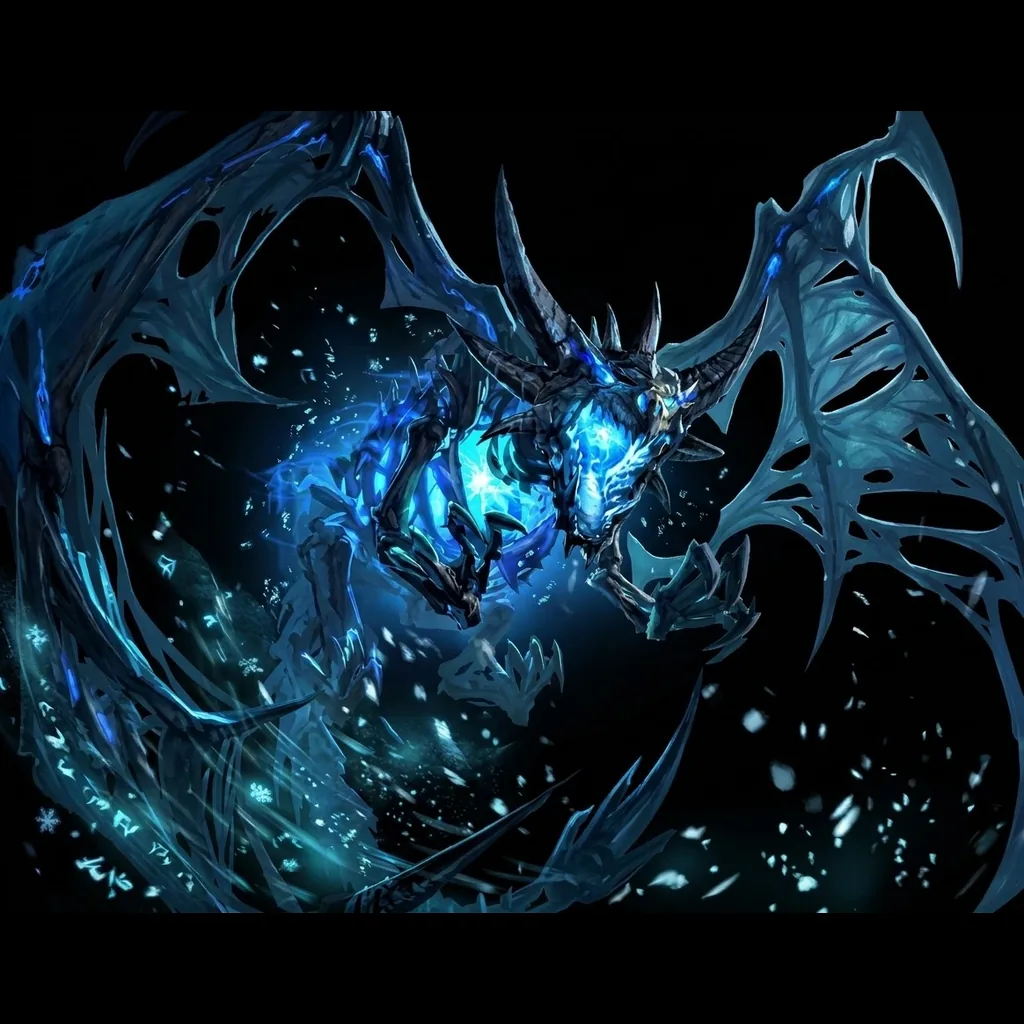
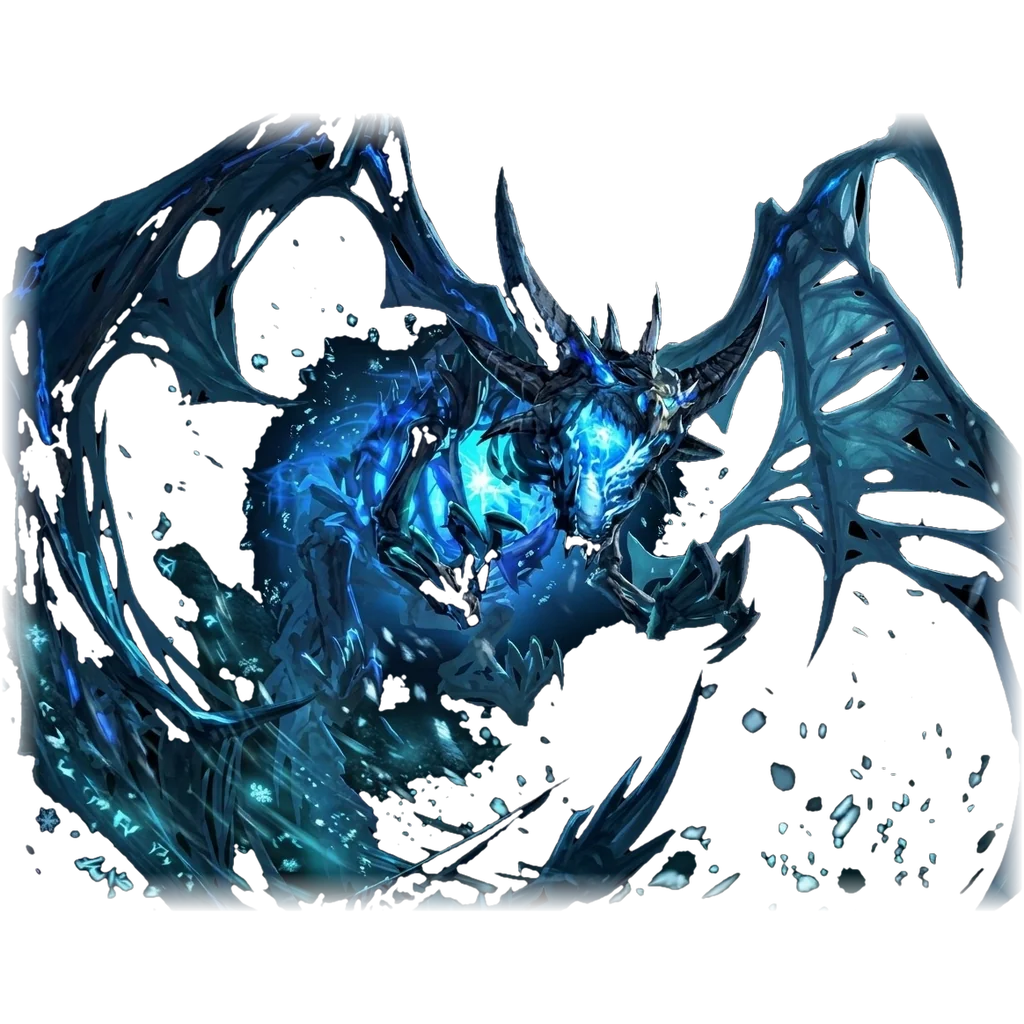
Polish the raid boss visuals
Sindragosa now has a real cutout and looks solid instead of translucent.
The boss card loses its rotating rays and the raid banner its boss
thumbnail. Visual-only sheet data no longer changes the game version, so
it will not force a verifier redeploy.

diff --git a/prototipo/js/ui/carta.js b/prototipo/js/ui/carta.js
@@ -21,11 +21,11 @@ function puntoBorde() {                              // punto al azar del contor
 // Sombra y resplandores ya desenfocados (se crean una vez y los comparten todas las cartas)
 let TEX_SOMBRA, TEX_LIDER, TEX_FORMA, TEX_CORONA;
 
-// Aura de jefe (ficha: auraJefe), según su lore: corona que late, rayos que giran y partículas que suben desde los bordes
+// Aura de jefe (ficha: auraJefe), según su lore: corona que late y partículas que suben desde los bordes
 const AURAS_JEFE = {
-  hielo: { corona: 0x38bdf8, rayos: 0x7dd3fc, chispas: [0xffffff, 0xe0f2fe, 0x7dd3fc, 0x38bdf8], onda: 0xbae6fd },
-  fuego: { corona: 0xff7a1a, rayos: 0xffd36b, chispas: [0xfff3a0, 0xffc23a, 0xff8a1a, 0xff5a00], onda: 0xffb020 },
-  oscuro: { corona: 0x7c3aed, rayos: 0xa78bfa, chispas: [0xddd6fe, 0xa78bfa, 0x7c3aed, 0x4c1d95], onda: 0x8b5cf6 },
+  hielo: { corona: 0x38bdf8, chispas: [0xffffff, 0xe0f2fe, 0x7dd3fc, 0x38bdf8], onda: 0xbae6fd },
+  fuego: { corona: 0xff7a1a, chispas: [0xfff3a0, 0xffc23a, 0xff8a1a, 0xff5a00], onda: 0xffb020 },
+  oscuro: { corona: 0x7c3aed, chispas: [0xddd6fe, 0xa78bfa, 0x7c3aed, 0x4c1d95], onda: 0x8b5cf6 },
 };
 // Carta de jefe: la imagen completa dentro de un marco, sin nombre, barra ni estadísticas
 function texturaJefe(p) {
@@ -185,14 +185,8 @@ export class Carta {
     if (p.auraJefe) {
       const st = this.auraDeJefe = AURAS_JEFE[p.auraJefe];
       TEX_CORONA ||= texturaDesenfocada(CW + 10, CH + 10, 16, 9, { forma: 'borde', grosor: 12, color: '#ffffff', alpha: 1 });
-      const r = this.jefeRayos = new PIXI.Graphics();
-      for (let i = 0; i < 16; i++) {
-        const a = i * Math.PI / 8, b = i % 2 ? .05 : .08, L = i % 2 ? 165 : 200;
-        r.poly([0, 0, Math.cos(a - b) * L, Math.sin(a - b) * L, Math.cos(a + b) * L, Math.sin(a + b) * L]).fill({ color: st.rayos, alpha: i % 2 ? .10 : .17 });
-      }
-      r.blendMode = 'add';
       this.jefeCorona = new PIXI.Sprite(TEX_CORONA); this.jefeCorona.anchor.set(.5); this.jefeCorona.tint = st.corona; this.jefeCorona.blendMode = 'add';
-      body.addChildAt(this.jefeCorona, 0); body.addChildAt(r, 0);
+      body.addChildAt(this.jefeCorona, 0);
       this.jefeOnda = 2;
     }
     this.statusRow = new PIXI.Container(); this.statusRow.y = CH / 2;   // sobre el borde inferior de la carta
@@ -269,12 +263,11 @@ export class Carta {
 
   tickAuraJefe(dt, T, x, y) {
     const vivo = !this.v?.muerto, st = this.auraDeJefe;
-    this.jefeCorona.visible = this.jefeRayos.visible = vivo;
+    this.jefeCorona.visible = vivo;
     if (!vivo) return;
     const k = this.c.scale.x * this.body.scale.x, cy = y + this.body.y * this.c.scale.y;
     this.jefeCorona.alpha = .7 + .3 * Math.sin(T * 1.8);
     this.jefeCorona.scale.set(1 + .03 * Math.sin(T * 1.8));
-    this.jefeRayos.rotation += .004 * dt; this.jefeRayos.alpha = .75 + .25 * Math.sin(T * 1.3);
     if (Math.random() < (MOVIL ? .7 : 1.4) * dt) {
       const b = puntoBorde();
       spawn({ x: x + (b.x + b.nx * rand(0, 6)) * k, y: cy + (b.y + b.ny * rand(0, 6)) * k, vx: b.nx * rand(.2, .8) + rand(-.2, .2), vy: rand(-1, -2.6) + b.ny * .4,

diff --git a/docs/supabase/verificar-raid.ts b/docs/supabase/verificar-raid.ts
@@ -302,7 +302,7 @@ const INVOCACIONES = {
   // vuelo: true → en el campo del jefe cruza la pantalla al aparecer y al atacar
   sindragosa: {
     nombre: 'Sindragosa', rareza: 'Legendario', emoji: '🐉', color: 0x38bdf8, imagen: 'assets/invocaciones/sindragosa.webp', dur: 2,
-    enfoque: [.62, .36], luminosa: true, vuelo: true,
+    enfoque: [.62, .36], vuelo: true,
     desc: 'La Reina de los Vermis de Escarcha. Al aparecer aplica Desgaste a todos los enemigos. Cada turno, Aliento de Escarcha: golpea 70% a todos los enemigos, con 25% de probabilidad de Congelación.',
     alAparecer: [{ tipo: 'efecto', id: 'wear', a: 'todosEnemigos' }],
     acciones: [{ tipo: 'golpe', pct: .70, elegir: 'todos', efectos: [{ accion: { tipo: 'efecto', id: 'freeze', prob: .25 } }] }],
@@ -8144,8 +8144,11 @@ function conCuenta(def, cuenta) {
 
 // Versión del juego (huella de las fichas y reliquias): en vivo solo se emparejan jugadores con la misma, y el servidor
 // solo verifica batallas jugadas con la versión que conoce
+// Lo que solo se ve no cambia una batalla: no debe obligar a volver a publicar la función que las verifica
+const VISUALES = new Set(['imagen', 'arteCarta', 'auraJefe', 'ambiente', 'emoji', 'color', 'enfoque', 'luminosa', 'vuelo', 'desc', 'nombre', 'estilo']);
+const sinVisuales = o => JSON.parse(JSON.stringify(o, (k, v) => VISUALES.has(k) ? undefined : v));
 const VERSION = (() => {
-  const t = JSON.stringify([OFICIALES.map(p => [p.id, p.base, p.extra, p.movimientos, p.pasiva, p.lider]), Object.keys(RELIQUIAS), JEFES_RAID, INVOCACIONES]);
+  const t = JSON.stringify([OFICIALES.map(p => [p.id, p.base, p.extra, p.movimientos, p.pasiva, p.lider]), Object.keys(RELIQUIAS), sinVisuales(JEFES_RAID), sinVisuales(INVOCACIONES)]);
   let h = 0; for (let i = 0; i < t.length; i++) h = (h * 31 + t.charCodeAt(i)) | 0; return String(h >>> 0);
 })();
 

diff --git a/prototipo/js/ui/ambiente.js b/prototipo/js/ui/ambiente.js
@@ -128,13 +128,13 @@ export function almaAlJefe(carta, jefe) {
     onComplete: () => { if (!s.destroyed) { burst(s.x, s.y, { n: 12, colors: [0xffffff, 0x7dd3fc], speed: 5, size: .22, life: 22 }); s.destroy(); } } });
 }
 
-// Una invocación con vuelo (Sindragosa) cruza el campo. El negro de su imagen desaparece con el modo "pantalla".
+// Una invocación con vuelo (Sindragosa) cruza el campo. Su imagen ya viene recortada: se ve sólida, no translúcida.
 export async function vueloInvocacion(imagen, { fuerza = 1, segundos = 1.8 } = {}) {
   if (!A) return;
   const tex = await PIXI.Assets.load(imagen);
   if (!A) return;
   const w = A.w, h = A.h, s = new PIXI.Sprite(tex);
-  s.anchor.set(.5); s.blendMode = 'screen'; s.alpha = 0; s.eventMode = 'none';
+  s.anchor.set(.5); s.alpha = 0; s.eventMode = 'none';
   const lado = Math.max(w * .75, h * .75) / tex.width;
   s.scale.set(lado); s.position.set(w * 1.15, h * .2);
   A.frente.addChildAt(s, A.frente.children.length - 2);        // delante de la nieve, detrás de la niebla y el destello
@@ -142,7 +142,7 @@ export async function vueloInvocacion(imagen, { fuerza = 1, segundos = 1.8 } = {
   destellar(.2, .4);
   shakeScene(8);
   gsap.timeline({ onComplete: () => { if (!s.destroyed) s.destroy(); } })
-    .to(s, { alpha: .95, duration: .35 }, 0)
+    .to(s, { alpha: 1, duration: .35 }, 0)
     .to(s, { x: w * -.15, y: h * .32, duration: segundos, ease: 'none' }, 0)
     .to(s, { alpha: 0, duration: .4 }, segundos - .4);
 }

diff --git a/prototipo/js/datos/cuenta.js b/prototipo/js/datos/cuenta.js
@@ -25,7 +25,10 @@ export function conCuenta(def, cuenta) {
 
 // Versión del juego (huella de las fichas y reliquias): en vivo solo se emparejan jugadores con la misma, y el servidor
 // solo verifica batallas jugadas con la versión que conoce
+// Lo que solo se ve no cambia una batalla: no debe obligar a volver a publicar la función que las verifica
+const VISUALES = new Set(['imagen', 'arteCarta', 'auraJefe', 'ambiente', 'emoji', 'color', 'enfoque', 'luminosa', 'vuelo', 'desc', 'nombre', 'estilo']);
+const sinVisuales = o => JSON.parse(JSON.stringify(o, (k, v) => VISUALES.has(k) ? undefined : v));
 export const VERSION = (() => {
-  const t = JSON.stringify([OFICIALES.map(p => [p.id, p.base, p.extra, p.movimientos, p.pasiva, p.lider]), Object.keys(RELIQUIAS), JEFES_RAID, INVOCACIONES]);
+  const t = JSON.stringify([OFICIALES.map(p => [p.id, p.base, p.extra, p.movimientos, p.pasiva, p.lider]), Object.keys(RELIQUIAS), sinVisuales(JEFES_RAID), sinVisuales(INVOCACIONES)]);
   let h = 0; for (let i = 0; i < t.length; i++) h = (h * 31 + t.charCodeAt(i)) | 0; return String(h >>> 0);
 })();

diff --git a/prototipo/js/datos/invocaciones.js b/prototipo/js/datos/invocaciones.js
@@ -17,7 +17,7 @@ export const INVOCACIONES = {
   // vuelo: true → en el campo del jefe cruza la pantalla al aparecer y al atacar
   sindragosa: {
     nombre: 'Sindragosa', rareza: 'Legendario', emoji: '🐉', color: 0x38bdf8, imagen: 'assets/invocaciones/sindragosa.webp', dur: 2,
-    enfoque: [.62, .36], luminosa: true, vuelo: true,
+    enfoque: [.62, .36], vuelo: true,
     desc: 'La Reina de los Vermis de Escarcha. Al aparecer aplica Desgaste a todos los enemigos. Cada turno, Aliento de Escarcha: golpea 70% a todos los enemigos, con 25% de probabilidad de Congelación.',
     alAparecer: [{ tipo: 'efecto', id: 'wear', a: 'todosEnemigos' }],
     acciones: [{ tipo: 'golpe', pct: .70, elegir: 'todos', efectos: [{ accion: { tipo: 'efecto', id: 'freeze', prob: .25 } }] }],

diff --git a/prototipo/menu.css b/prototipo/menu.css
@@ -1081,7 +1081,6 @@ body.social-min #soc-abrir { display: block; }
 /* Jefe de Raid */
 .rd-tarjeta { min-height: 240px; border-color: rgba(125, 211, 252, .45); background-size: cover; background-position: center; display: flex; flex-direction: column; justify-content: flex-end; }
 .rd-tarjeta h3 { color: #bae6fd; }
-.rd-arte { position: absolute; right: 14px; top: 14px; width: 150px; border-radius: 10px; border: 1px solid rgba(186, 230, 253, .6); }
 .rd-difs { display: flex; gap: 6px; margin-top: 10px; overflow-x: auto; }
 .rd-dif { flex: 1 0 auto; padding: 8px 12px; border-radius: 10px; border: 1px solid var(--dc); background: rgba(8, 11, 18, .85); color: var(--dc); font-weight: 800; cursor: pointer; }
 .rd-dif.on { background: var(--dc); color: #0b1220; }

diff --git a/prototipo/js/ui/raid.js b/prototipo/js/ui/raid.js
@@ -68,7 +68,6 @@ function pintar() {
   $('#rd-cuerpo').innerHTML = `
     <section>
       <div class="hd-tarjeta rd-tarjeta" style="background-image:url('assets/fondos/raid-lich-king.webp')">
-        <img class="rd-arte" src="${jefe.imagen}" alt="">
         <h3>👑 ${jefe.nombre}</h3>
         <p>Todos los jugadores atacan la misma barra. El día cierra a medianoche, hora de México.</p>
       </div>

diff --git a/docs/mecanicas.md b/docs/mecanicas.md
@@ -809,10 +809,10 @@ Datos en `js/datos/reliquias.js`; servidor en `docs/sql/005_reliquias.sql` (+ `d
 - **Reliquias:** dependen de la dificultad y del cofre. El cofre 1, 2, 3 y 4 da 25, 50, 75 y 100% de esta tabla (Rara/Especial/Épica): Fácil 30/5/0 · Normal 45/12/3 · Difícil 60/20/8 · Brutal 75/30/16 · Pesadilla 90/45/30. No se duplican si el jefe cae.
 - **Resultados:** el título sale en rojo solo si tu equipo cayó. Llegar a la ronda 30 o derrotar al jefe no se ve como derrota.
 - **Carta de jefe** (`arteCarta` en la ficha): solo la imagen completa, sin nombre, barra ni estadísticas. Los datos siguen en el panel y en la barra compartida.
-- **Aura de jefe** (`auraJefe`: `hielo`, `fuego` u `oscuro`): corona que late, rayos que giran, partículas y ondas, con los colores de `AURAS_JEFE` en `js/ui/carta.js`.
+- **Aura de jefe** (`auraJefe`: `hielo`, `fuego` u `oscuro`): corona que late, partículas y ondas, con los colores de `AURAS_JEFE` en `js/ui/carta.js`.
 - **Sindragosa** (invocación, Legendario, `js/datos/invocaciones.js`): la invoca Furia de Frostmourne. Actúa 2 veces y se puede Disipar. Al aparecer aplica Desgaste a todos los enemigos; cada turno, Aliento de Escarcha: 70% a todos, con 25% de Congelación.
-- **`vuelo: true`** en una invocación: en el campo del jefe cruza la pantalla con tormenta al aparecer y al atacar (`vueloInvocacion` en `js/ui/ambiente.js`). Su imagen conserva el fondo negro y usa modo pantalla (`luminosa`).
-- **`VERSION`** ahora incluye a los jefes y las invocaciones. Con fichas nuevas, una función `verificar-raid` vieja acepta el daño reportado en vez de rechazarlo.
+- **`vuelo: true`** en una invocación: en el campo del jefe cruza la pantalla con tormenta al aparecer y al atacar (`vueloInvocacion` en `js/ui/ambiente.js`). Su imagen está recortada, así que se ve sólida.
+- **`VERSION`** ahora incluye a los jefes y las invocaciones, sin sus datos solo visuales (imagen, color, aura, descripción…). Con fichas nuevas, una función `verificar-raid` vieja acepta el daño reportado en vez de rechazarlo.
 - **Función `verificar-raid`:** se genera con `node prototipo/herramientas/empaquetar_verificador.mjs` y lleva el motor adentro. Hay que generarla y publicarla otra vez cuando cambien las fichas, las invocaciones o el motor de combate. Un cambio solo en el motor no cambia `VERSION`, así que en ese caso **se debe publicar antes de que los jugadores ataquen**: una repetición que no coincide cuenta 0 de daño.
 - **Panel social:** se minimiza con «–» y se abre con 💬, también en pantallas grandes. Se recuerda en cada dispositivo.
 - **Desfragmentar todas** (Colección → Campeones): `desfragmentar_maximos` desfragmenta todas las copias de los campeones con las estrellas máximas. Cada copia da 3 fragmentos, igual que una por una. Las estrellas máximas están en `_estrellas_maximas()` y en `MAX_ESTRELLAS` (`js/ui/coleccion.js`); si suben, hay que cambiar los dos.
